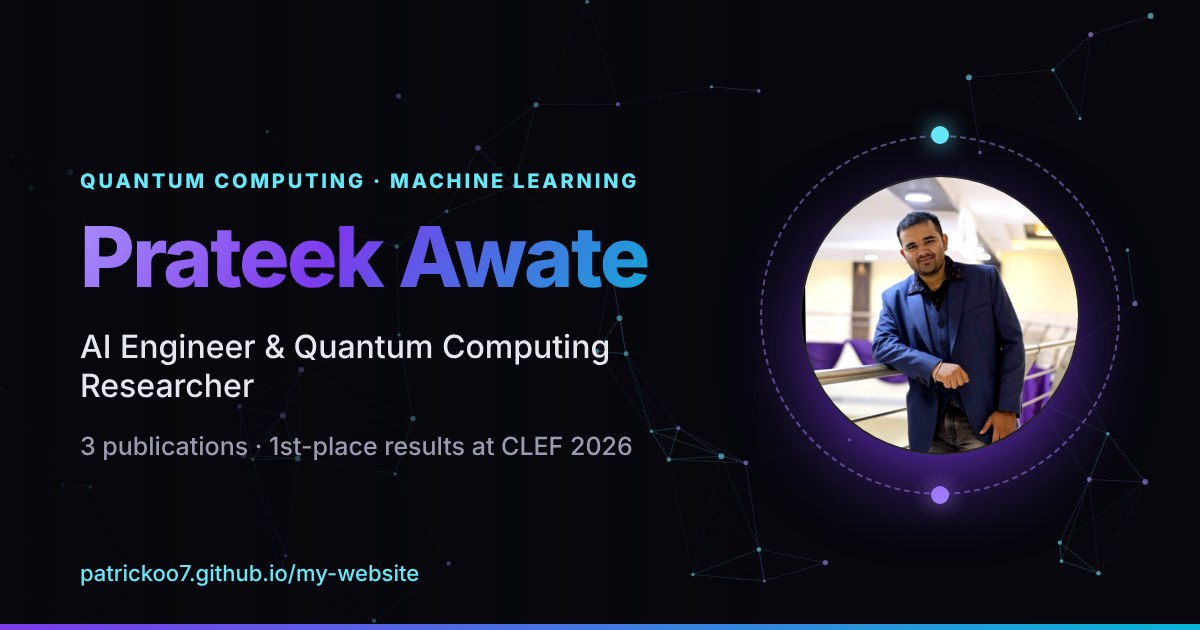
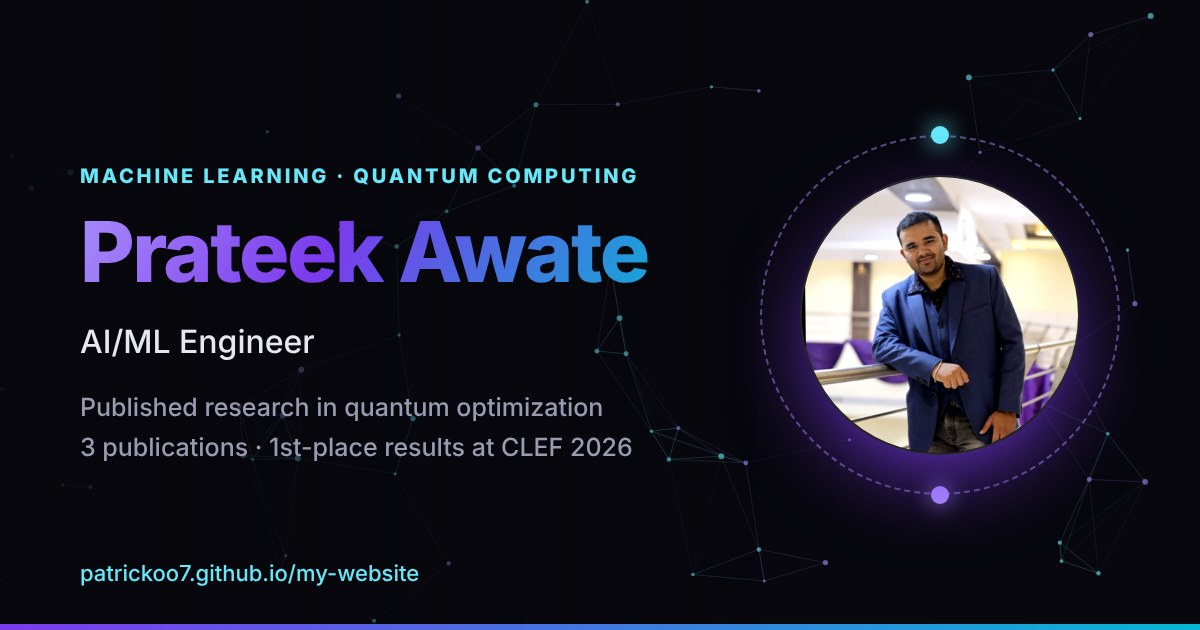
Lead with AI/ML Engineer and state quantum work factually
- Headline role is now "AI/ML Engineer"; the tagline states the quantum
  work as a fact: published research in quantum optimization, focused on
  machine-learning decoders for quantum error correction
- Page title, meta description, schema.org jobTitle and the social preview
  image follow the new wording
- Home hero: "Interests" line starts with production AI systems so it no
  longer repeats the tagline

diff --git a/src/data/profile.ts b/src/data/profile.ts
@@ -1,8 +1,8 @@
 // Edit this file to update your name, links and bio across the whole site.
 export const profile = {
   name: 'Prateek Awate',
-  role: 'AI Engineer & Quantum Computing Researcher',
-  tagline: 'Production AI engineering and quantum computing research, focused on machine-learning decoders for quantum error correction.',
+  role: 'AI/ML Engineer',
+  tagline: 'Published research in quantum optimization; focused on machine-learning decoders for quantum error correction.',
   openTo: 'Open to PhD positions in quantum computing, research collaborations, and AI/ML engineering roles.',
   location: 'Pune, India',
   email: 'awateprateek@gmail.com',
@@ -13,10 +13,10 @@ export const profile = {
   ],
   // Words cycled by the typing effect on the home page.
   typing: [
-    'ML decoders for quantum error correction',
-    'QUBO & quantum annealing',
-    'data-efficient learning',
     'production AI systems',
+    'quantum optimization (QUBO, annealing)',
+    'data-efficient learning',
+    'ML decoders for quantum error correction',
   ],
   interests: [
     { title: 'Quantum error correction', text: 'Machine-learning decoders that are accurate and fast enough for real-time use.', primary: true },
